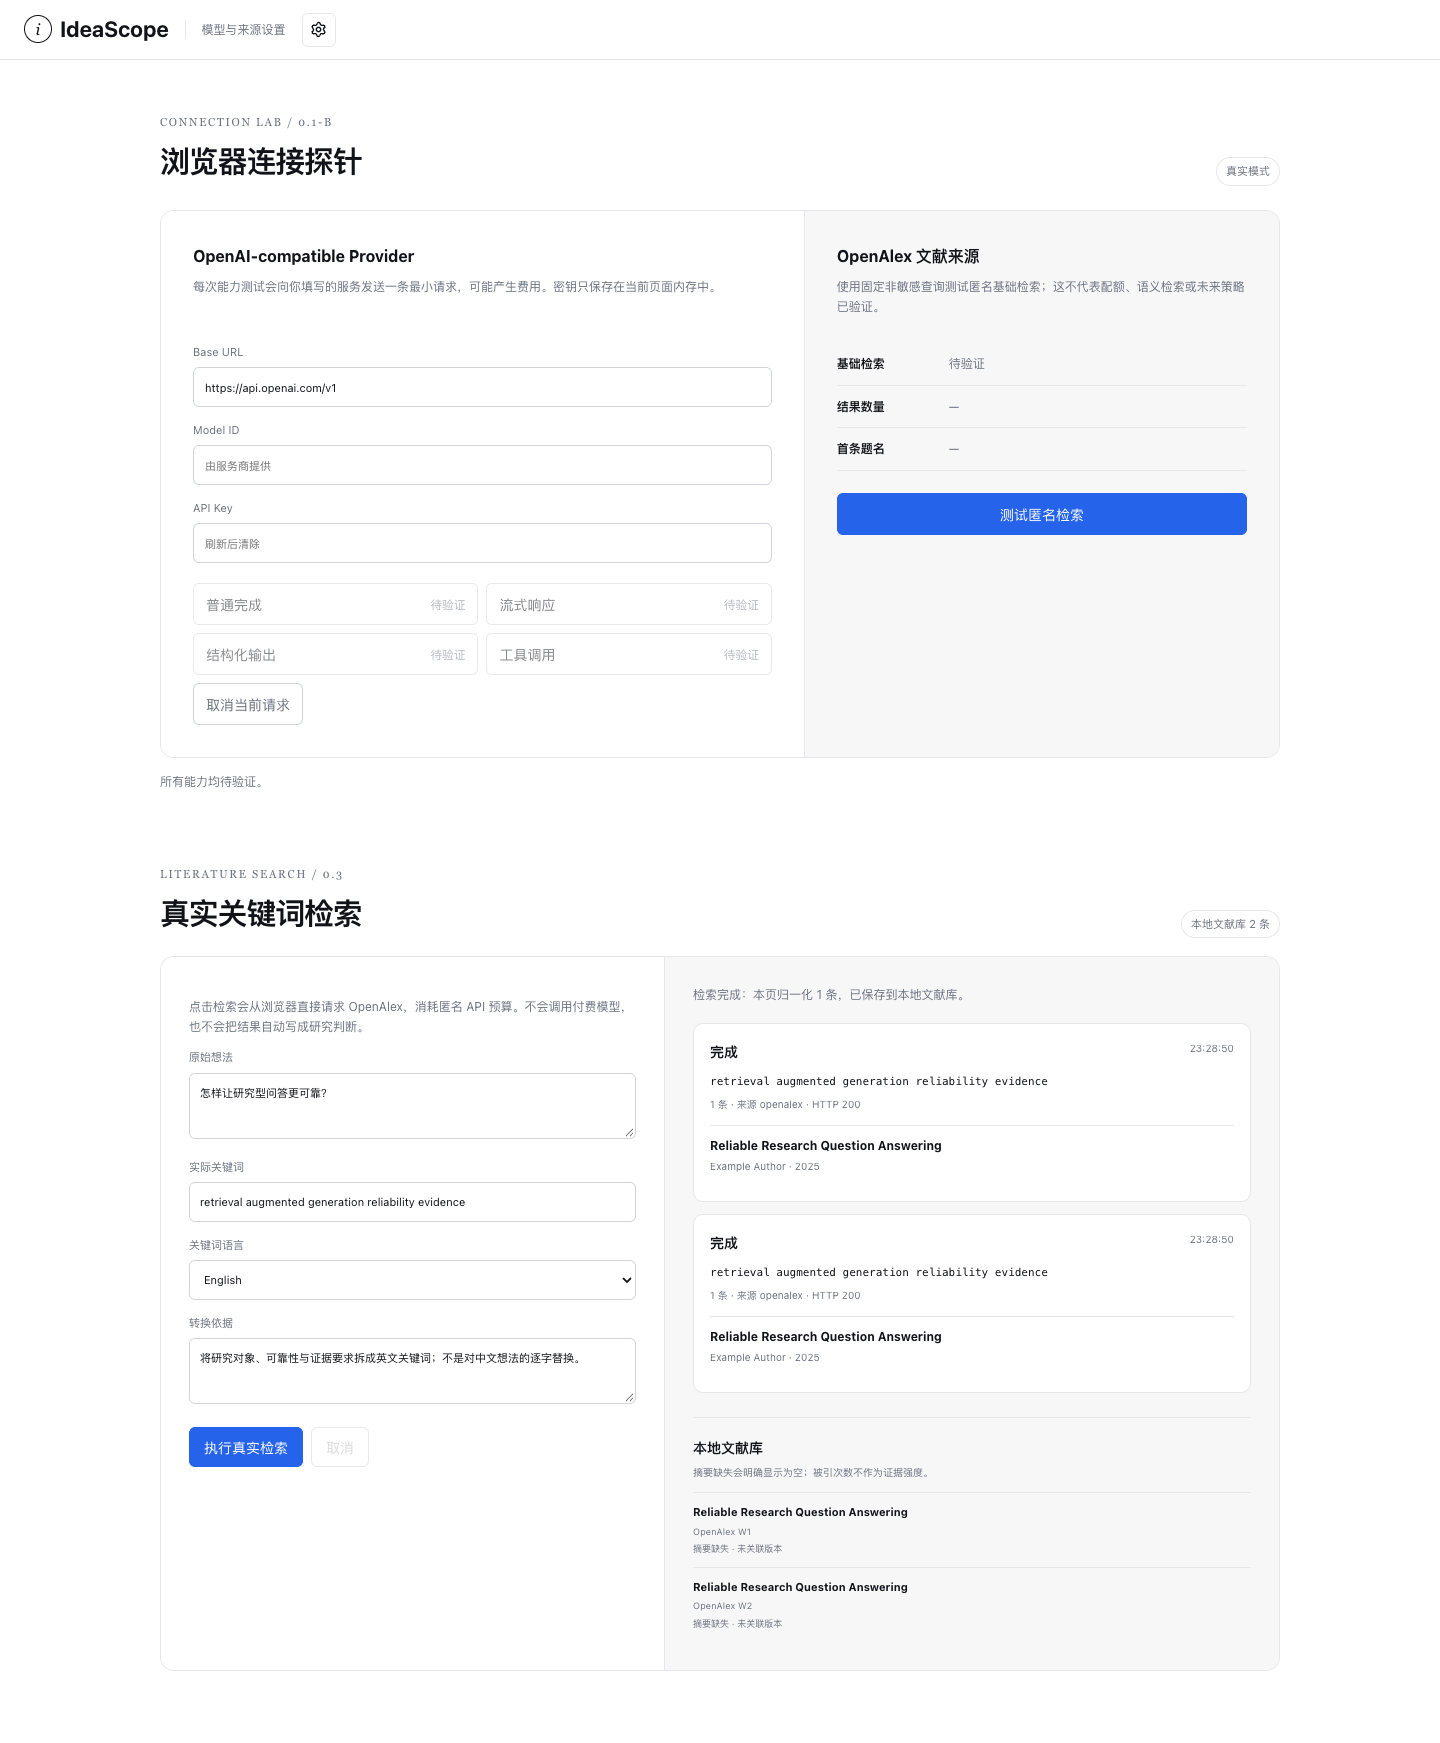
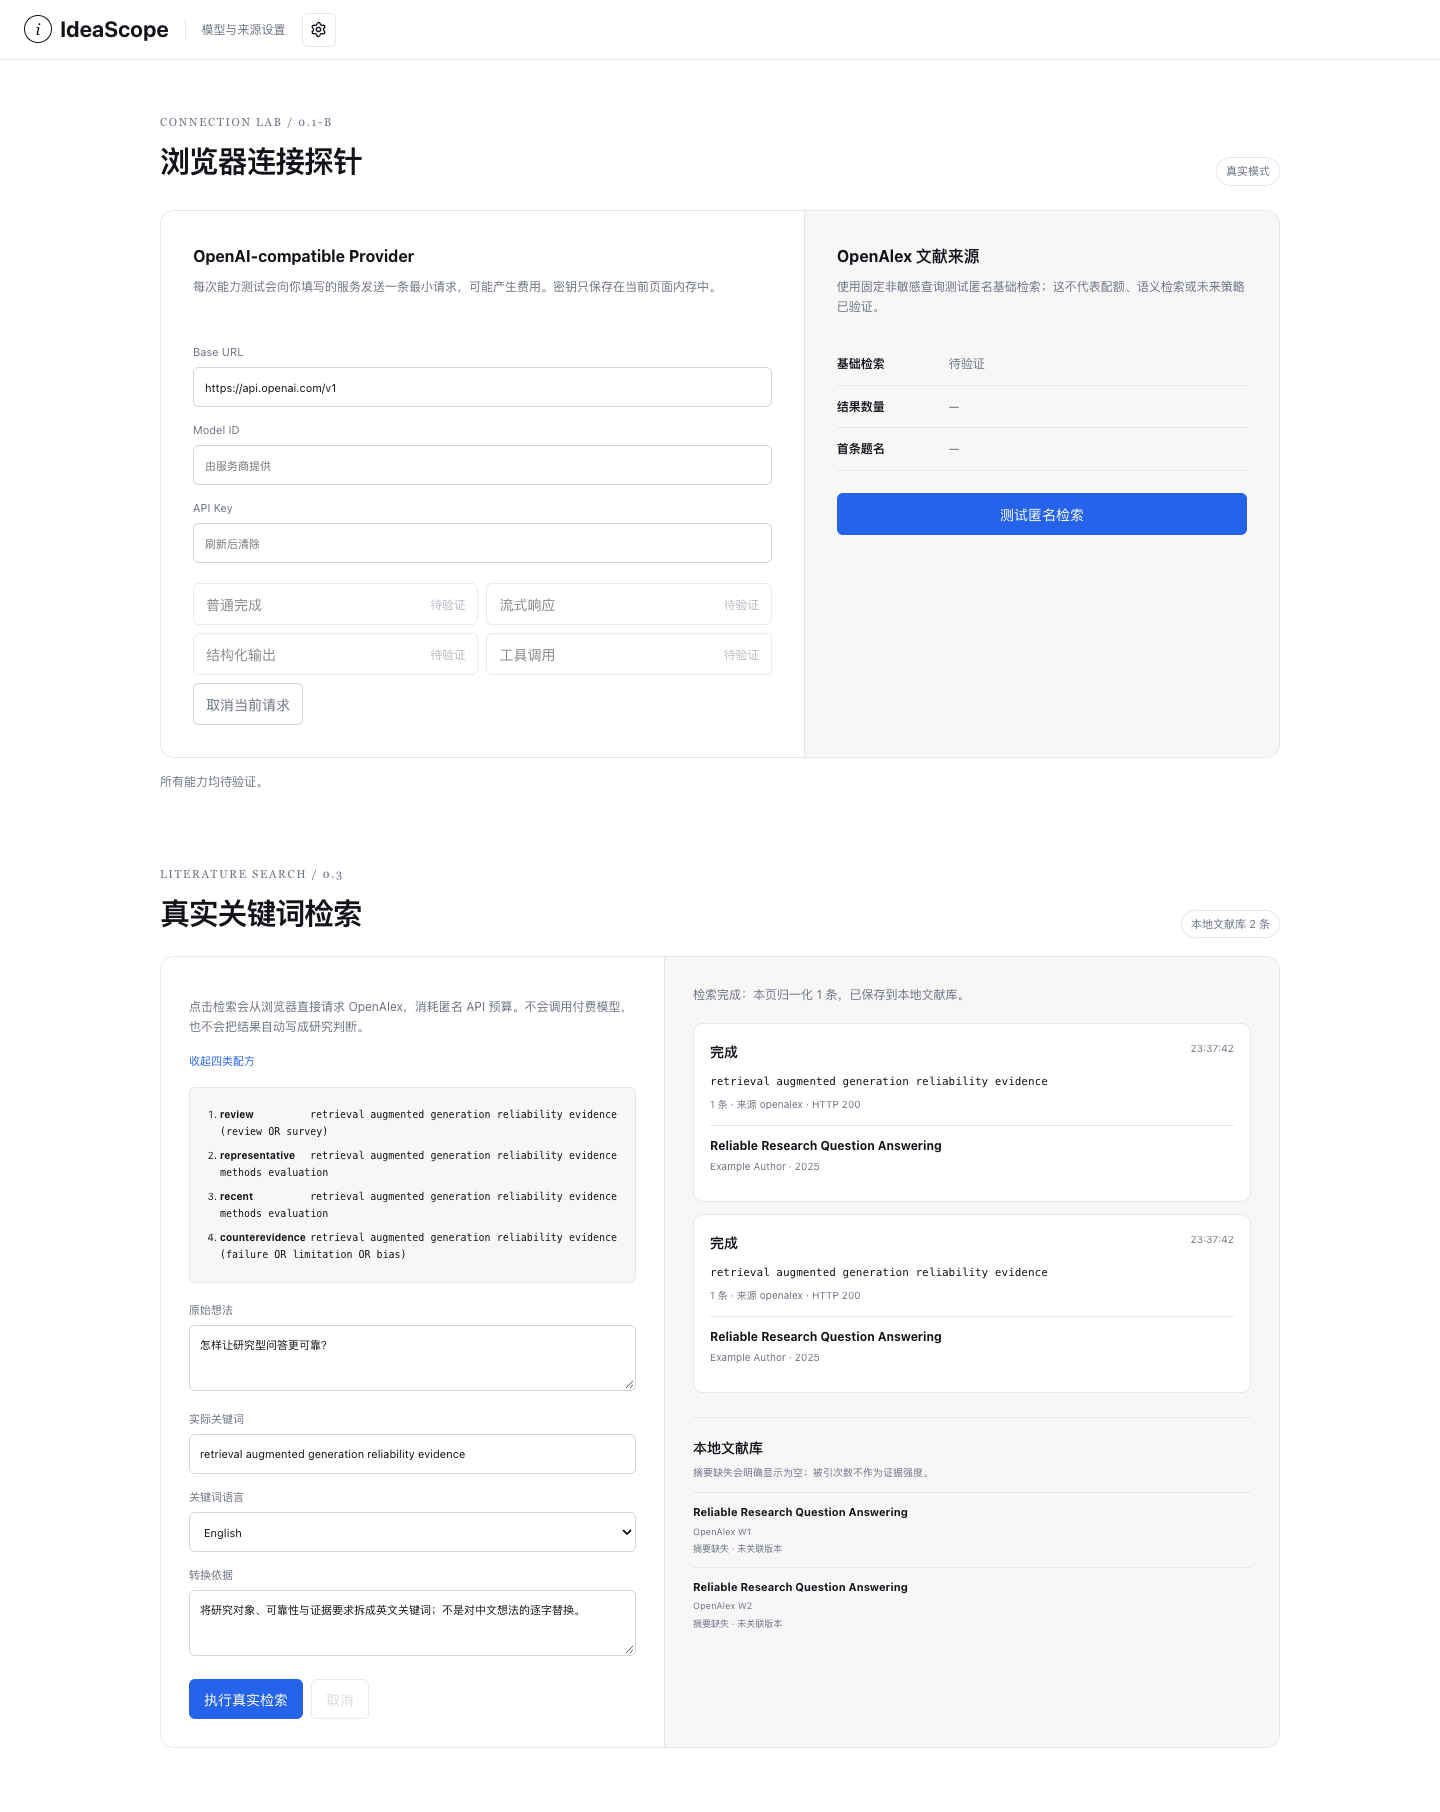
feat: complete v0.3.0-C search recipes

diff --git a/src/domain/search/recipes.ts b/src/domain/search/recipes.ts
@@ -1,0 +1,128 @@
+import type {
+  LiteratureAdapter,
+  LiteratureQuery,
+  LiteratureSearchOptions,
+  LiteratureSearchResult,
+} from "./literature";
+
+export type SearchPurpose =
+  "review" | "representative" | "recent" | "counterevidence";
+export interface SearchRecipeItem {
+  purpose: SearchPurpose;
+  query: LiteratureQuery;
+  options: LiteratureSearchOptions;
+}
+export interface SearchRecipe {
+  id: string;
+  items: SearchRecipeItem[];
+  budget: { maxQueries: 4; maxCandidates: 60 };
+}
+export interface RecipeRun {
+  results: Array<{ purpose: SearchPurpose; result: LiteratureSearchResult }>;
+  failures: Array<{ purpose: SearchPurpose; source: string; reason: string }>;
+  candidateCount: number;
+}
+
+export function createSearchRecipe(input: {
+  id: string;
+  originalIdea: string;
+  language: string;
+  rationale: string;
+  coreTerms: string;
+  routeTerms: string;
+  limitationTerms: string;
+  currentYear: number;
+}): SearchRecipe {
+  const make = (
+    purpose: SearchPurpose,
+    keywords: string,
+    filters?: { fromYear?: number },
+  ) => ({
+    purpose,
+    query: {
+      originalIdea: input.originalIdea,
+      keywords,
+      language: input.language,
+      rationale: `${input.rationale}；目的：${purpose}`,
+    },
+    options: {
+      limit: 15,
+      maxPages: 1,
+      filters,
+      sort:
+        purpose === "recent"
+          ? ("publication_date" as const)
+          : ("relevance" as const),
+      fields: [
+        "id",
+        "doi",
+        "title",
+        "publication_year",
+        "authorships",
+        "primary_location",
+        "best_oa_location",
+        "abstract_inverted_index",
+      ],
+    },
+  });
+  return {
+    id: input.id,
+    budget: { maxQueries: 4, maxCandidates: 60 },
+    items: [
+      make("review", `${input.coreTerms} (review OR survey)`),
+      make("representative", `${input.coreTerms} ${input.routeTerms}`),
+      make("recent", `${input.coreTerms} ${input.routeTerms}`, {
+        fromYear: input.currentYear - 4,
+      }),
+      make("counterevidence", `${input.coreTerms} (${input.limitationTerms})`),
+    ],
+  };
+}
+
+export async function runSearchRecipe(
+  adapters: readonly LiteratureAdapter[],
+  recipe: SearchRecipe,
+  signal: AbortSignal,
+): Promise<RecipeRun> {
+  const results: RecipeRun["results"] = [];
+  const failures: RecipeRun["failures"] = [];
+  let candidateCount = 0;
+  for (const item of recipe.items.slice(0, recipe.budget.maxQueries)) {
+    for (const adapter of adapters) {
+      if (candidateCount >= recipe.budget.maxCandidates || signal.aborted)
+        break;
+      try {
+        const remaining = recipe.budget.maxCandidates - candidateCount;
+        const result = await adapter.search(
+          item.query,
+          { ...item.options, limit: Math.min(item.options.limit, remaining) },
+          signal,
+        );
+        if (
+          [
+            "source_unavailable",
+            "rate_limited",
+            "timed_out",
+            "invalid_response",
+          ].includes(result.record.status)
+        )
+          failures.push({
+            purpose: item.purpose,
+            source: adapter.source,
+            reason: result.record.status,
+          });
+        else {
+          results.push({ purpose: item.purpose, result });
+          candidateCount += result.papers.length;
+        }
+      } catch (error) {
+        failures.push({
+          purpose: item.purpose,
+          source: adapter.source,
+          reason: error instanceof Error ? error.message : "unknown",
+        });
+      }
+    }
+  }
+  return { results, failures, candidateCount };
+}

diff --git a/tests/unit/search-recipes.test.ts b/tests/unit/search-recipes.test.ts
@@ -1,0 +1,106 @@
+import { describe, expect, it } from "vitest";
+import fixtures from "../../examples/search-recipes.fixture.json";
+import type {
+  LiteratureAdapter,
+  LiteratureSearchResult,
+} from "../../src/domain/search/literature";
+import {
+  createSearchRecipe,
+  runSearchRecipe,
+} from "../../src/domain/search/recipes";
+
+describe("literature search recipes", () => {
+  it("builds four explainable, budgeted purposes for three disciplines", () => {
+    for (const item of fixtures.cases) {
+      const recipe = createSearchRecipe({
+        ...item,
+        rationale: `根据${item.discipline}范围整理`,
+        currentYear: 2026,
+      });
+      expect(recipe.items.map((entry) => entry.purpose)).toEqual([
+        "review",
+        "representative",
+        "recent",
+        "counterevidence",
+      ]);
+      expect(recipe.items).toHaveLength(recipe.budget.maxQueries);
+      expect(
+        recipe.items.reduce((sum, entry) => sum + entry.options.limit, 0),
+      ).toBeLessThanOrEqual(recipe.budget.maxCandidates);
+      expect(
+        recipe.items.every((entry) => entry.query.rationale.includes("目的")),
+      ).toBe(true);
+      expect(item.include.length).toBeGreaterThan(0);
+      expect(item.exclude.length).toBeGreaterThan(0);
+    }
+  });
+
+  it("keeps partial results when one source call fails", async () => {
+    let call = 0;
+    const search: LiteratureAdapter["search"] = (query) => {
+      call += 1;
+      const status =
+        call === 2 ? ("source_unavailable" as const) : ("completed" as const);
+      return Promise.resolve({
+        papers:
+          status === "completed"
+            ? [
+                {
+                  id: `p-${call}`,
+                  externalIds: {},
+                  title: query.keywords,
+                  authors: [],
+                  year: null,
+                  venue: null,
+                  url: "https://example.test",
+                  abstract: null,
+                  source: "fixture",
+                  fetchedAt: "2026-09-10T00:00:00.000Z",
+                  relatedVersionIds: [],
+                },
+              ]
+            : [],
+        nextCursor: null,
+        record: {
+          id: `r-${call}`,
+          source: "fixture",
+          query,
+          cacheKey: "fixture",
+          status,
+          startedAt: "2026-09-10T00:00:00.000Z",
+          endedAt: "2026-09-10T00:00:00.000Z",
+          resultCount: status === "completed" ? 1 : 0,
+          totalAvailable: null,
+          pagesFetched: status === "completed" ? 1 : 0,
+          diagnostic: {
+            endpoint: "fixture",
+            httpStatus: status === "completed" ? 200 : 503,
+            rateLimitRemaining: null,
+            rateLimitResetSeconds: null,
+            requestCostUsd: null,
+            errorCode: status === "completed" ? null : status,
+          },
+        },
+      } satisfies LiteratureSearchResult);
+    };
+    const adapter: LiteratureAdapter = {
+      source: "fixture",
+      search,
+    };
+    const item = fixtures.cases[0]!;
+    const run = await runSearchRecipe(
+      [adapter],
+      createSearchRecipe({ ...item, rationale: "fixture", currentYear: 2026 }),
+      new AbortController().signal,
+    );
+    expect(run.results).toHaveLength(3);
+    expect(run.failures).toEqual([
+      {
+        purpose: "representative",
+        source: "fixture",
+        reason: "source_unavailable",
+      },
+    ]);
+    expect(run.candidateCount).toBe(3);
+  });
+});

diff --git a/src/features/literature-search/LiteratureSearchLab.tsx b/src/features/literature-search/LiteratureSearchLab.tsx
@@ -1,10 +1,11 @@
-import { useEffect, useRef, useState } from "react";
+import { useEffect, useMemo, useRef, useState } from "react";
 import type { Paper } from "../../../contracts/domain";
 import type {
   LiteratureQuery,
   LiteratureSearchResult,
   SearchStatus,
 } from "../../domain/search/literature";
+import { createSearchRecipe } from "../../domain/search/recipes";
 import {
   OpenAlexLiteratureAdapter,
   OPENALEX_FIELDS,
@@ -49,6 +50,21 @@ export function LiteratureSearchLab() {
   const [savedCount, setSavedCount] = useState(0);
   const [library, setLibrary] = useState<Paper[]>([]);
   const [reviews, setReviews] = useState<PendingReview[]>([]);
+  const [showRecipe, setShowRecipe] = useState(false);
+  const recipe = useMemo(
+    () =>
+      createSearchRecipe({
+        id: "preview",
+        originalIdea,
+        language,
+        rationale,
+        coreTerms: keywords,
+        routeTerms: "methods evaluation",
+        limitationTerms: "failure OR limitation OR bias",
+        currentYear: new Date().getFullYear(),
+      }),
+    [originalIdea, language, rationale, keywords],
+  );
   const active = useRef<AbortController | null>(null);
   useEffect(() => {
     void paperStore.list().then((papers) => {
@@ -125,6 +141,23 @@ export function LiteratureSearchLab() {
             点击检索会从浏览器直接请求 OpenAlex，消耗匿名 API
             预算。不会调用付费模型，也不会把结果自动写成研究判断。
           </p>
+          <button
+            className={styles.recipeToggle}
+            type="button"
+            onClick={() => setShowRecipe((value) => !value)}
+          >
+            {showRecipe ? "收起四类配方" : "预览四类检索配方"}
+          </button>
+          {showRecipe && (
+            <ol className={styles.recipe}>
+              {recipe.items.map((item) => (
+                <li key={item.purpose}>
+                  <b>{item.purpose}</b>
+                  <code>{item.query.keywords}</code>
+                </li>
+              ))}
+            </ol>
+          )}
           <label>
             原始想法
             <textarea

diff --git a/src/features/literature-search/LiteratureSearchLab.module.css b/src/features/literature-search/LiteratureSearchLab.module.css
@@ -196,6 +196,32 @@
     font-size: 25px;
   }
 }
+.recipeToggle {
+  margin: 0 0 16px;
+  padding: 0;
+  border: 0;
+  background: transparent;
+  color: var(--accent);
+  font-size: 11px;
+}
+.recipe {
+  margin: 0 0 18px;
+  padding: 12px 12px 12px 30px;
+  border: 1px solid var(--line);
+  border-radius: var(--radius-sm);
+  background: var(--surface-subtle);
+}
+.recipe li {
+  margin: 6px 0;
+  font-size: 10px;
+}
+.recipe b {
+  display: inline-block;
+  width: 90px;
+}
+.recipe code {
+  overflow-wrap: anywhere;
+}
 .review {
   margin-bottom: 12px;
   padding: 14px;

diff --git a/tests/e2e/static-preview.spec.ts b/tests/e2e/static-preview.spec.ts
@@ -58,6 +58,10 @@ test("runs a bounded OpenAlex keyword query without invoking a model", async ({
     });
   });
   await page.goto("/ideascope/#/settings");
+  await page.getByRole("button", { name: "预览四类检索配方" }).click();
+  await expect(
+    page.getByText("counterevidence", { exact: true }),
+  ).toBeVisible();
   await page.getByRole("button", { name: "执行真实检索" }).click();
   await expect(
     page.getByText("Reliable Research Question Answering").first(),

diff --git a/docs/PROGRESS.md b/docs/PROGRESS.md
@@ -1,6 +1,6 @@
 # 开发进度
 
-当前状态：**v0.3.0-B 文献与证据本地底座已完成；v0.1.0-B 的真实 Provider 与 v0.1.0-C 的 Pages origin 仍待验证，因此 v0.1.0 整体门禁仍未关闭。**
+当前状态：**v0.3.0-C 检索配方与离线质量夹具已完成；v0.1.0-B 的真实 Provider 与 v0.1.0-C 的 Pages origin 仍待验证，因此 v0.1.0 整体门禁仍未关闭。**
 
 | 阶段 | 状态 | 产物/证据 |
 |---|---|---|
@@ -13,6 +13,7 @@
 | v0.2.0-C | 已完成 | 关键演示状态、来源与方向视图、可访问导出弹窗、移动视图切换、四档视觉基准与组件尺寸表 |
 | v0.3.0-A | 已完成 | LiteratureAdapter、OpenAlex 普通关键词/游标/节流/取消/归一化、SearchRecord、脱敏诊断与真实 localhost 查询 |
 | v0.3.0-B | 已完成 | DOI/arXiv/OpenAlex 规范化、精确/候选去重、Dexie Paper/Evidence/SearchRecord、版本关联与审阅界面 |
+| v0.3.0-C | 已完成 | 四类检索配方、4 查询/60 候选预算、部分失败聚合、三学科离线夹具与质量审阅 |
 | 其余版本 | 计划中 | 按路线逐阶段执行 |
 
 ## 每阶段记录模板
@@ -264,3 +265,25 @@
 风险与决策：题名相似不自动合并；版本关联也不把两条记录计算成两份独立证据。引文计数未进入证据强度。候选审阅决定当前只反映在 Paper 版本关联或保留独立，不建立不可解释的相似度阈值。
 
 下一阶段入口：v0.3.0-C，实现综述/代表路线/近期/反证四类检索配方、预算组合、至少三个学科的离线夹具及质量审阅记录；单一来源失败不得导致整轮丢失。
+
+## v0.3.0-C 阶段记录
+
+阶段 ID：v0.3.0-C
+
+实施日期 / commit：2026-09-10 / 见本阶段 Git 提交
+
+范围：建立入门综述、代表路线、近期研究、反证/局限四类检索配方；限制查询与候选预算；聚合部分成功；提供计算机科学、公共卫生、人文学科三组离线夹具与质量审阅。不增加第二个未经验证的真实来源，不启用 semantic search。
+
+实际修改文件：`src/domain/search/recipes.ts`、`examples/search-recipes.fixture.json`、`tests/unit/search-recipes.test.ts`、检索页配方预览、e2e、`reports/search-quality-review.md`、视觉截图与本文件。
+
+已完成：每个配方固定最多 4 查询、每项 15 条、总候选 60；近期配方使用显式年份筛选，反证配方使用领域相关 limitation/bias/confounding 等术语。每条查询保留中文原始想法、英文关键词、语言与生成依据。运行器逐来源/目的记录失败并保留其他成功结果。界面可在不联网、不调用模型的情况下预览四类实际查询。
+
+测试命令与结果：`npm run check` 全部通过；ESLint、严格 typecheck、8 个 unit/contract 文件共 32 项测试、production build、9 项 Playwright e2e 与 secret scan 均成功。新增配方单测验证三学科均覆盖四类目的、预算不超限、转换依据存在，以及单个来源调用失败时其余三类结果保留。
+
+人工验收与质量审阅：`reports/search-quality-review.md` 逐案记录纳入/排除理由和离线审阅结论；这是配方审阅，不冒充实时召回率或科研质量结论。检索页配方预览延续现有紧凑工具视觉。
+
+未完成 / 待实测：三组夹具尚未在多个真实来源进行召回率/精确率抽样；当前只有 OpenAlex 已在 localhost 浏览器验证。真实多源、语义检索与引文链不是 v0.3 必需项。
+
+风险与决策：固定配方是可解释起点，不是领域分类结论；用户或后续单智能体可修正术语。缺一来源不崩溃不等于隐藏失败，失败仍保留 source、purpose 与受控原因。
+
+下一阶段入口：v0.4.0-A，建立单一 AgentController、意图/状态机、ProviderAdapter、严格结构化/JSON 回退、上下文预算、取消与 mock LLM 测试；在没有真实 Provider 凭证时不得声称真实模型端到端通过。

diff --git a/reports/search-quality-review.md b/reports/search-quality-review.md
@@ -1,0 +1,11 @@
+# v0.3.0-C 离线检索质量审阅
+
+日期：2026-09-10。此记录审阅的是离线配方夹具与纳入/排除规则，不冒充实时数据库召回率评测。夹具位于 `examples/search-recipes.fixture.json`。
+
+| 用例 | 四类目的覆盖 | 纳入理由 | 排除理由 | 审阅结论 |
+|---|---|---|---|---|
+| 计算机科学：RAG 可靠性 | 综述、代表路线、近五年、失败/幻觉/局限 | 直接讨论 RAG 可靠性、证据或评估 | 只提检索、不涉及问答或证据质量 | 关键词与中文想法分离；反证查询不是简单追加“最新” |
+| 公共卫生：热浪与老年服务需求 | 综述、流行病学/急诊路线、近五年、混杂/不平等/漏报 | 人群、热暴露、服务使用结局均可定位 | 纯气象预测且无健康结局 | 结局与人群边界明确；被引数不作为纳入条件 |
+| 人文学科：数字档案与地方记忆 | 综述、口述史/档案研究路线、近五年、偏差/排除/沉默/殖民 | 档案实践与地方或社区记忆叙述有关 | 纯存储工程、不讨论文化叙事 | 不把 STEM 术语硬编码为通用模板；允许质性研究来源 |
+
+每个配方固定最多 4 个查询、每项 15 条、总候选不超过 60。`runSearchRecipe` 保留成功查询并单独记录来源/目的失败；一个 503、429、超时或异常响应不会抹掉其他结果。真实相关性、跨来源覆盖与结果去重仍需在可用来源和 Pages origin 上进一步人工抽查。
